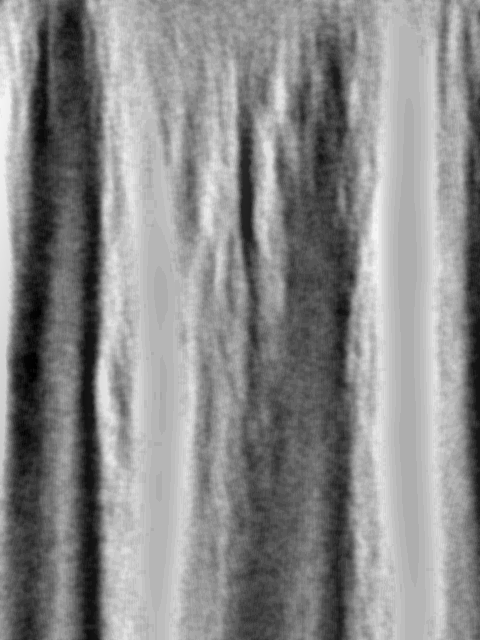
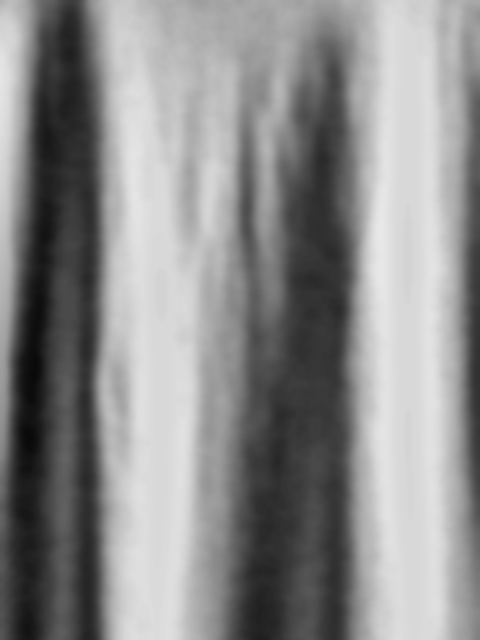
Tone down the fabric warp so detailed designs don't break apart
The previous displacement strength (scale 26, sharper fold map) tore up
fine detail like small text on real designs into a pixelated mess.
Regenerate the fold map with heavier smoothing, blur the displacement
map itself in the filter chain, and drop the displacement scale to 9 —
still bends the design into the shirt's folds but stays legible.

diff --git a/src/components/PreviewView/PreviewView.jsx b/src/components/PreviewView/PreviewView.jsx
@@ -89,12 +89,17 @@ export default function PreviewView() {
                   width="100%"
                   height="100%"
                   preserveAspectRatio="none"
+                  result="dispMapRaw"
+                />
+                <feGaussianBlur
+                  in="dispMapRaw"
+                  stdDeviation="2.5"
                   result="dispMap"
                 />
                 <feDisplacementMap
                   in="SourceGraphic"
                   in2="dispMap"
-                  scale="26"
+                  scale="9"
                   xChannelSelector="R"
                   yChannelSelector="G"
                 />
